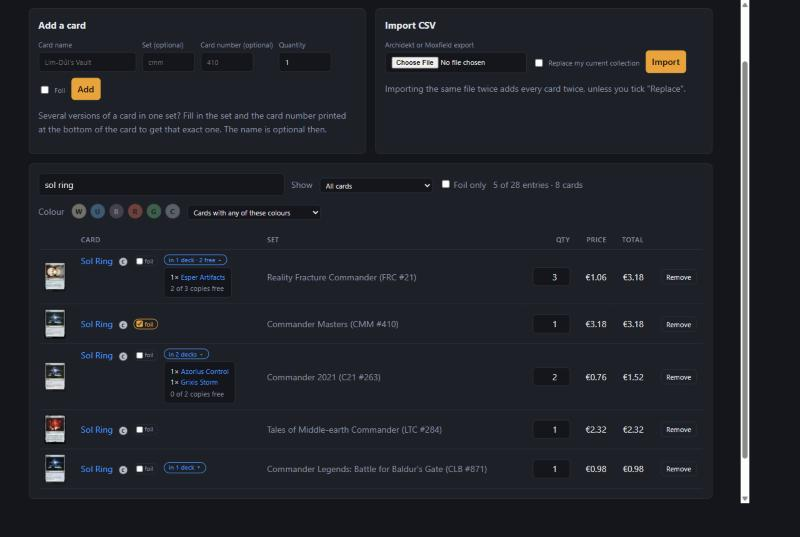
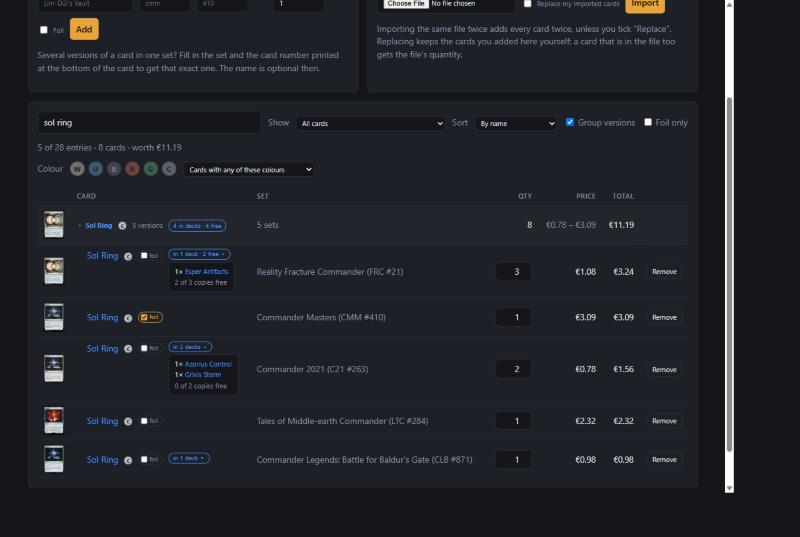
Collection: group versions of a card, and list spare copies
- A card with several versions is one line with its number of versions,
  copies, price range, total value and deck use; it opens to show every
  version. "Group versions" switches this off.
- "Spare copies" shows the copies no deck uses or needs (basic lands left
  out) and what they are worth together, to trade or sell.
- Sort the collection by name or by value; a card with several versions
  moves as one, valued on the copies in view.
- The API takes ?spare=true and lists the spare copies per entry.
- README screenshots updated.

diff --git a/app/templates/collection.html b/app/templates/collection.html
@@ -60,7 +60,14 @@
       <option value="wanted">Free copies a deck still needs</option>
       <option value="sort">New cards to sort into decks</option>
       <option value="used">In a deck</option>
+      <option value="spare">Spare copies (no deck uses or needs them)</option>
     </select>
+    <label class="muted" for="collection-sort">Sort</label>
+    <select id="collection-sort" aria-label="Sort the collection">
+      <option value="name">By name</option>
+      <option value="value">By value, high to low</option>
+    </select>
+    <label class="check muted" title="One line per card, with its versions underneath"><input id="collection-group" type="checkbox" checked>&nbsp;Group versions</label>
     <label class="check muted"><input id="collection-foil" type="checkbox">&nbsp;Foil only</label>
     <span id="collection-count" class="muted"></span>
   </div>
@@ -72,16 +79,45 @@
   </div>
   <p id="collection-empty" class="muted" hidden>No cards match your search.</p>
   <table id="collection-table">
+    <thead>
     <tr>
       <th></th><th>Card</th><th>Set</th><th class="num">Qty</th>
       <th class="num">Price</th><th class="num">Total</th><th></th>
     </tr>
-    {% for row in rows %}
+    </thead>
+    {% for name, group in rows | groupby("card.name") %}
+    <tbody class="card-group" data-name="{{ name }}">
+    {% if group | length > 1 %}
+    {% set first = group | selectattr("card.image_url") | first %}
+    {% set prices = group | map(attribute="unit_price") | reject("none") | list %}
+    {% set group_used = namespace(copies=0, new=0) %}
+    {% for row in group %}{% set group_used.copies = group_used.copies + (usage.get(row.entry.id, []) | sum(attribute=1)) %}{% set group_used.new = group_used.new + waiting.get(row.entry.id, 0) %}{% endfor %}
+    {% set group_qty = group | map(attribute="entry.quantity") | sum %}
+    <tr class="group-row">
+      <td>{% if first %}<img class="thumb" src="{{ first.card.image_url }}" alt="" loading="lazy">{% endif %}</td>
+      <td>
+        <button type="button" class="link group-toggle" aria-expanded="false" title="Show or hide the versions of {{ name }}">
+          <span class="group-arrow">▸</span> <strong>{{ name }}</strong></button>
+        {{ pips(group[0].card.colors) }}
+        <span class="muted group-versions">{{ group | length }} versions</span>
+        {% if group_used.copies %}<span class="badge group-in-decks">{{ group_used.copies }} in decks · {{ group_qty - group_used.copies }} free</span>{% endif %}
+        {% if group_used.new %}<span class="badge new">{{ group_used.new }} new</span>{% endif %}
+      </td>
+      <td class="muted">{{ group | map(attribute="card.set_code") | unique | list | length }} sets</td>
+      <td class="num group-qty">{{ group_qty }}</td>
+      <td class="num muted">{% if prices %}{{ prices | min | eur }}{% if prices | max != prices | min %} – {{ prices | max | eur }}{% endif %}{% endif %}</td>
+      <td class="num group-total"></td>
+      <td></td>
+    </tr>
+    {% endif %}
+    {% for row in group %}
     {% set used = usage.get(row.entry.id, []) %}
     {% set in_decks = used | sum(attribute=1) %}
     {% set needs = wanted.get(row.entry.id, []) %}
     {% set new = waiting.get(row.entry.id, 0) %}
-    <tr data-search="{{ row.card.name }} {{ row.card.set_name }} {{ row.card.set_code }} #{{ row.card.collector_number or '' }}{% for deck, count in used %} {{ deck.name }}{% endfor %}{% for deck, count, _ in needs %} {{ deck.name }}{% endfor %}" data-foil="{{ 1 if row.entry.is_foil else 0 }}" data-qty="{{ row.entry.quantity }}" data-used="{{ in_decks }}" data-wanted="{{ needs | length }}" data-waiting="{{ new }}" data-colors="{{ '?' if row.card.colors is none else row.card.colors }}">
+    <tr data-search="{{ row.card.name }} {{ row.card.set_name }} {{ row.card.set_code }} #{{ row.card.collector_number or '' }}{% for deck, count in used %} {{ deck.name }}{% endfor %}{% for deck, count, _ in needs %} {{ deck.name }}{% endfor %}" data-foil="{{ 1 if row.entry.is_foil else 0 }}" data-qty="{{ row.entry.quantity }}" data-used="{{ in_decks }}" data-wanted="{{ needs | length }}" data-waiting="{{ new }}" data-colors="{{ '?' if row.card.colors is none else row.card.colors }}"
+        data-price="{{ row.unit_price if row.unit_price is not none else '' }}" data-basic="{{ 1 if row.card.name in basic_lands else 0 }}"
+        class="{{ 'version' if group | length > 1 }}">
       <td>{% if row.card.image_url %}<img class="thumb" src="{{ row.card.image_url }}" alt="" loading="lazy">{% endif %}</td>
       <td>
         <a href="/cards/{{ row.card.id }}">{{ row.card.name }}</a>
@@ -149,6 +185,8 @@
       </td>
     </tr>
     {% endfor %}
+    </tbody>
+    {% endfor %}
   </table>
   {% else %}
   <p class="muted">No cards yet. Add one above or import a CSV export.</p>
@@ -167,6 +205,7 @@
     const table = document.getElementById("collection-table");
     // Lower-case and strip accents, so "lim-dul" finds "Lim-Dûl's Vault".
     const fold = (text) => text.normalize("NFD").replace(/\p{M}/gu, "").toLowerCase();
+    const euro = (value) => (value === null ? "–" : "€" + value.toLocaleString("en-US", { minimumFractionDigits: 2, maximumFractionDigits: 2 }));
     const rows = [...table.querySelectorAll("tr[data-search]")].map((row) => ({
       row,
       text: fold(row.dataset.search),
@@ -176,7 +215,23 @@
       wanted: Number(row.dataset.wanted),  // decks that miss this card while a copy is free
       waiting: Number(row.dataset.waiting),  // new copies from an import, not in a deck until you choose
       colors: row.dataset.colors,  // colour identity in WUBRG order; "?" not known yet
+      price: row.dataset.price === "" ? null : Number(row.dataset.price),
+      basic: row.dataset.basic === "1",  // basic lands: decks count them by number, not from the collection
+      group: row.closest("tbody"),
     }));
+    const groups = [...table.tBodies].map((body) => ({
+      body,
+      header: body.querySelector("tr.group-row"),
+      items: rows.filter((item) => item.group === body),
+      open: false,
+    }));
+    const grouping = document.getElementById("collection-group");
+    const sortBy = document.getElementById("collection-sort");
+    try {
+      grouping.checked = localStorage.getItem("collection-group") !== "off";
+      sortBy.value = localStorage.getItem("collection-sort") || "name";
+    } catch (error) {}
+    if (!sortBy.value) sortBy.value = "name";
 
     const colours = colourFilter("collection", "collection-colors", "any", () => filter());
     const show = document.getElementById("collection-show");
@@ -187,6 +242,7 @@
       const words = fold(search.value).split(/\s+/).filter(Boolean);
       let shown = 0;
       let cards = 0;
+      let value = 0;
       for (const item of rows) {
         // "Free copies" counts the copies no deck uses, "In a deck" the copies a deck uses, and
         // "a deck still needs" the free copies of cards a deck misses.
@@ -195,21 +251,53 @@
           : show.value === "used" ? Math.min(item.used, item.quantity)
           : show.value === "wanted" ? (item.wanted > 0 ? free : 0)
           : show.value === "sort" ? (item.wanted > 0 ? item.waiting : 0)
+          : show.value === "spare" ? (item.wanted > 0 || item.basic ? 0 : free)
           : item.quantity;
         const match = copies > 0 && (!foilOnly.checked || item.foil) && colours.matches(item.colors)
           && words.every((word) => item.text.includes(word));
-        item.row.hidden = !match;
+        item.match = match;
+        item.copies = copies;
         // Sorting: open the list of decks that need the card, with its "Put in this deck" buttons.
         const needed = item.row.querySelector("details.wanted-by");
         if (needed && show.value === "sort" && match) needed.open = true;
         if (match) {
           shown += 1;
           cards += copies;
+          value += copies * (item.price ?? 0);
         }
       }
+      // One line per card with its versions underneath, or every version on its own line.
+      const opened = show.value === "sort";  // sorting needs the buttons of every version
+      for (const group of groups) {
+        const matching = group.items.filter((item) => item.match);
+        // What the copies in this view are worth, e.g. only the spare ones.
+        group.value = matching.reduce((sum, item) => sum + item.copies * (item.price ?? 0), 0);
+        group.body.hidden = matching.length === 0;
+        const folded = grouping.checked && group.header !== null;
+        if (group.header) {
+          group.header.hidden = !grouping.checked;
+          const open = group.open || opened;
+          group.header.querySelector(".group-toggle").setAttribute("aria-expanded", String(open));
+          group.header.querySelector(".group-arrow").textContent = open ? "▾" : "▸";
+          const total = group.items.length;
+          group.header.querySelector(".group-versions").textContent =
+            matching.length === total ? `${total} versions` : `${matching.length} of ${total} versions`;
+          group.header.querySelector(".group-qty").textContent = matching.reduce((sum, item) => sum + item.copies, 0);
+          group.header.querySelector(".group-total").textContent = euro(group.value);
+        }
+        for (const item of group.items) {
+          item.row.hidden = !item.match || (folded && !(group.open || opened));
+        }
+      }
+      if (sortBy.value === "value") sortGroups();
       const filtered = words.length > 0 || foilOnly.checked || show.value !== "all" || colours.active();
-      const what = { free: "free cards", used: "cards in decks", wanted: "free cards a deck needs", sort: "new cards to sort" }[show.value] || "cards";
-      count.textContent = filtered ? `${shown} of ${rows.length} entries · ${cards} ${what}` : `${rows.length} entries`;
+      const what = {
+        free: "free cards", used: "cards in decks", wanted: "free cards a deck needs", sort: "new cards to sort",
+        spare: "spare cards",
+      }[show.value] || "cards";
+      count.textContent = filtered
+        ? `${shown} of ${rows.length} entries · ${cards} ${what} · worth ${euro(value)}`
+        : `${rows.length} entries`;
       empty.hidden = shown > 0;
       table.hidden = shown === 0;
       const url = new URL(location.href);
@@ -218,8 +306,33 @@
       history.replaceState(null, "", url);
     }
 
+    // Sort by name, or by what the copies in view are worth (a card with several versions moves as one).
+    function sortGroups() {
+      const ordered = [...groups].sort((a, b) =>
+        sortBy.value === "value"
+          ? (b.value ?? 0) - (a.value ?? 0) || a.body.dataset.name.localeCompare(b.body.dataset.name)
+          : a.body.dataset.name.localeCompare(b.body.dataset.name));
+      table.append(...ordered.map((group) => group.body));
+    }
+
     search.addEventListener("input", filter);
     foilOnly.addEventListener("change", filter);
+    grouping.addEventListener("change", () => {
+      try { localStorage.setItem("collection-group", grouping.checked ? "on" : "off"); } catch (error) {}
+      filter();
+    });
+    sortBy.addEventListener("change", () => {
+      try { localStorage.setItem("collection-sort", sortBy.value); } catch (error) {}
+      filter();
+      sortGroups();
+    });
+    table.addEventListener("click", (event) => {
+      const toggle = event.target.closest(".group-toggle");
+      if (!toggle) return;
+      const group = groups.find((candidate) => candidate.body.contains(toggle));
+      group.open = !group.open;
+      filter();
+    });
     const showToSort = document.getElementById("show-to-sort");
     if (showToSort) {
       showToSort.addEventListener("click", () => {
@@ -233,9 +346,9 @@
       filter();
     });
     filter();
+    sortGroups();
 
     // Change a quantity in place: saved through the API, without reloading the page.
-    const euro = (value) => (value === null ? "–" : "€" + value.toLocaleString("en-US", { minimumFractionDigits: 2, maximumFractionDigits: 2 }));
     const grandTotal = document.getElementById("collection-total");
 
     async function saveQuantity(input) {

diff --git a/app/static/style.css b/app/static/style.css
@@ -96,6 +96,12 @@ button.small { padding: 3px 8px; font-size: 12px; }
 .sort-notice { border-color: var(--want); }
 .sort-notice p { margin: 0 0 8px; }
 details.in-decks li form.inline { margin-left: 6px; }
+tr.group-row td { background: rgba(255, 255, 255, .025); }
+.group-toggle { color: var(--text); }
+.group-arrow { display: inline-block; width: 1em; color: var(--muted); }
+.group-versions { margin-left: 6px; font-size: 12px; }
+.badge.group-in-decks { margin-left: 6px; border-color: var(--have); color: var(--have); }
+tr.version td:nth-child(2) { padding-left: 28px; }
 button:hover { filter: brightness(1.1); }
 
 .top-cards { display: grid; grid-template-columns: repeat(auto-fill, minmax(104px, 1fr)); gap: 12px; }

diff --git a/app/routers/api.py b/app/routers/api.py
@@ -65,12 +65,15 @@ def list_collection(
     in_deck: bool | None = None,
     colors: str | None = None,
     color_match: Literal["any", "within", "exact"] = "any",
+    spare: bool = False,
     session: Session = Depends(get_session),
 ):
     """The collection; `q` filters on card name, set name or set code (every word must match).
     `in_deck=false` keeps the entries with a copy that is in no saved deck, `in_deck=true` the
     entries a saved deck uses. `colors` filters on colour identity (letters from WUBRG, C for
-    colourless): cards with any of them, cards that fit `within` them, or cards with `exact`ly them."""
+    colourless): cards with any of them, cards that fit `within` them, or cards with `exact`ly them.
+    `spare=true` keeps the entries with copies that no deck uses or needs (basic lands left out),
+    for example to trade or sell."""
     rows = collection.search_rows(collection.collection_rows(session), q)
     rows = collection.filter_colors(rows, colors, color_match)
     shared = decks.collection_decks(session)
@@ -88,6 +91,10 @@ def list_collection(
             for deck, copies, deck_entry_id in wanted.get(row.entry.id, [])
         ]
         item.waiting = shared.waiting.get(row.entry.id, 0)
+        basic = row.card.name.casefold() in decks.BASIC_LANDS
+        item.spare = 0 if item.wanted_by or basic else item.free
+        if spare and item.spare <= 0:
+            continue
         if in_deck is None or (bool(item.in_decks) if in_deck else item.free > 0):
             items.append(item)
             kept.append(row)

diff --git a/tests/test_api.py b/tests/test_api.py
@@ -508,3 +508,22 @@ def test_filter_wishlist_on_colour(client):
     # The shared filter is on the other pages too.
     client.post("/api/collection", json={"name": "Sol Ring"})
     assert 'id="collection-colors"' in client.get("/collection").text
+
+
+def test_collection_groups_versions_and_lists_spare_copies(client):
+    client.post("/api/collection", json={"name": "Sol Ring", "set_code": "cmm", "quantity": 3})
+    client.post("/api/collection", json={"name": "Sol Ring", "set_code": "lea"})
+    client.post("/api/collection", json={"name": "Lim-Dûl's Vault"})
+    client.post("/api/collection", json={"name": "Fire // Ice"})
+    client.post("/api/decks", json={"name": "Ramp", "decklist": "1 Sol Ring\n1 Fire // Ice"})
+
+    page = client.get("/collection").text
+    # One summary line for the two Sol Ring versions; cards with a single version have none.
+    assert page.count('class="group-row"') == 1 and "2 versions" in page
+    assert '<tbody class="card-group" data-name="Sol Ring"' in page
+    assert 'id="collection-group"' in page and 'option value="spare"' in page
+
+    items = client.get("/api/collection", params={"spare": True}).json()["items"]
+    spare = sorted((i["card"]["name"], i["card"]["set_code"], i["spare"]) for i in items)
+    # The deck uses one Sol Ring (the cheapest) and Fire // Ice; everything else is spare.
+    assert spare == [("Lim-Dûl's Vault", "all", 1), ("Sol Ring", "cmm", 2), ("Sol Ring", "lea", 1)]

diff --git a/app/routers/pages.py b/app/routers/pages.py
@@ -94,7 +94,8 @@ def collection_page(request: Request, session: Session = Depends(get_session)):
     rows = collection.collection_rows(session)
     shared = decks.collection_decks(session)
     return render(request, "collection.html", rows=rows, total=collection.collection_value(rows),
-                  usage=shared.usage, wanted=shared.wanted, waiting=shared.waiting)
+                  usage=shared.usage, wanted=shared.wanted, waiting=shared.waiting,
+                  basic_lands=decks.BASIC_LAND_NAMES)
 
 
 @router.post("/collection/add")

diff --git a/app/schemas.py b/app/schemas.py
@@ -67,6 +67,8 @@ class CollectionItemOut(BaseModel):
     wanted_by: list[DeckNeedOut] = []
     # New copies from an import: no deck gets them until you put them in one (or let the app decide).
     waiting: int = 0
+    # Copies that no deck uses or needs (basic lands not counted): to trade or sell.
+    spare: int = 0
 
     @classmethod
     def from_row(cls, row: CollectionRow) -> "CollectionItemOut":

diff --git a/README.md b/README.md
@@ -35,7 +35,9 @@ price.
 
 ![On the deck page a missing card with a new copy waiting can be put in the deck directly](docs/deck-new-copy.jpg)
 
-![Searching the collection: five versions of Sol Ring, told apart by set and card number](docs/collection-search.jpg)
+![Searching the collection: Sol Ring is one line with its five versions opened underneath, told apart by set and card number](docs/collection-search.jpg)
+
+![Spare copies sorted by value: what no deck uses or needs, and what it is worth together](docs/collection-spare.jpg)
 
 ![Which decks a card is in: the label opened for two Sol Ring printings](docs/collection-decks.jpg)
 
@@ -86,6 +88,8 @@ price.
 - See which decks a card is in: cards that are set aside for a deck carry an "in N decks" label that opens the list of decks, and how many copies are still free
 - Show only the free copies, only the copies a deck uses, or only the free copies a deck still needs: cards you own that are missing from a deck carry a "needed by N decks" label with the decks
 - Instant search in the collection on card name, set or deck (accents and word order do not matter), with a foil-only filter
+- Versions of a card are grouped: one line per card with the number of versions, copies, price range and total value, which opens to show every version. Untick "Group versions" to see every version on its own line
+- Spare copies: the copies no deck uses or needs (basic lands left out), with what they are worth together, to trade or sell. Sort the collection by value to see the most valuable ones first
 - Filter the collection on colour (white, blue, black, red, green, colourless): cards with any of the chosen colours, cards that fit a deck of those colours, or cards with exactly those colours. Every card shows its colour identity
 - A printing without a price borrows the price of the cheapest printing with the same name, marked "≈ SET"
 - Daily price snapshots, total value over time, top 10 most valuable cards, weekly risers and fallers
@@ -185,7 +189,7 @@ product page. Two things to know:
 
 | Method | Path | |
 | --- | --- | --- |
-| `GET` / `POST` | `/api/collection` | List the collection (`?q=` searches name and set, `?in_deck=false` keeps the cards that are in no deck yet, `?colors=WU&color_match=any|within|exact` filters on colour) / add a card and fetch its price |
+| `GET` / `POST` | `/api/collection` | List the collection (`?q=` searches name and set, `?in_deck=false` keeps the cards that are in no deck yet, `?spare=true` the copies no deck uses or needs, `?colors=WU&color_match=any\|within\|exact` filters on colour) / add a card and fetch its price |
 | `POST` | `/api/collection/import` | Upload an Archidekt or Moxfield CSV (`?replace=true` replaces the earlier imported cards, hand-added cards stay) |
 | `PATCH` / `DELETE` | `/api/collection/{id}` | Change the quantity or the foil finish of an entry / remove it |
 | `GET` / `POST` | `/api/wishlist` | List the wishlist (`?colors=WU&color_match=any\|within\|exact`) / watch a card with a max price |
